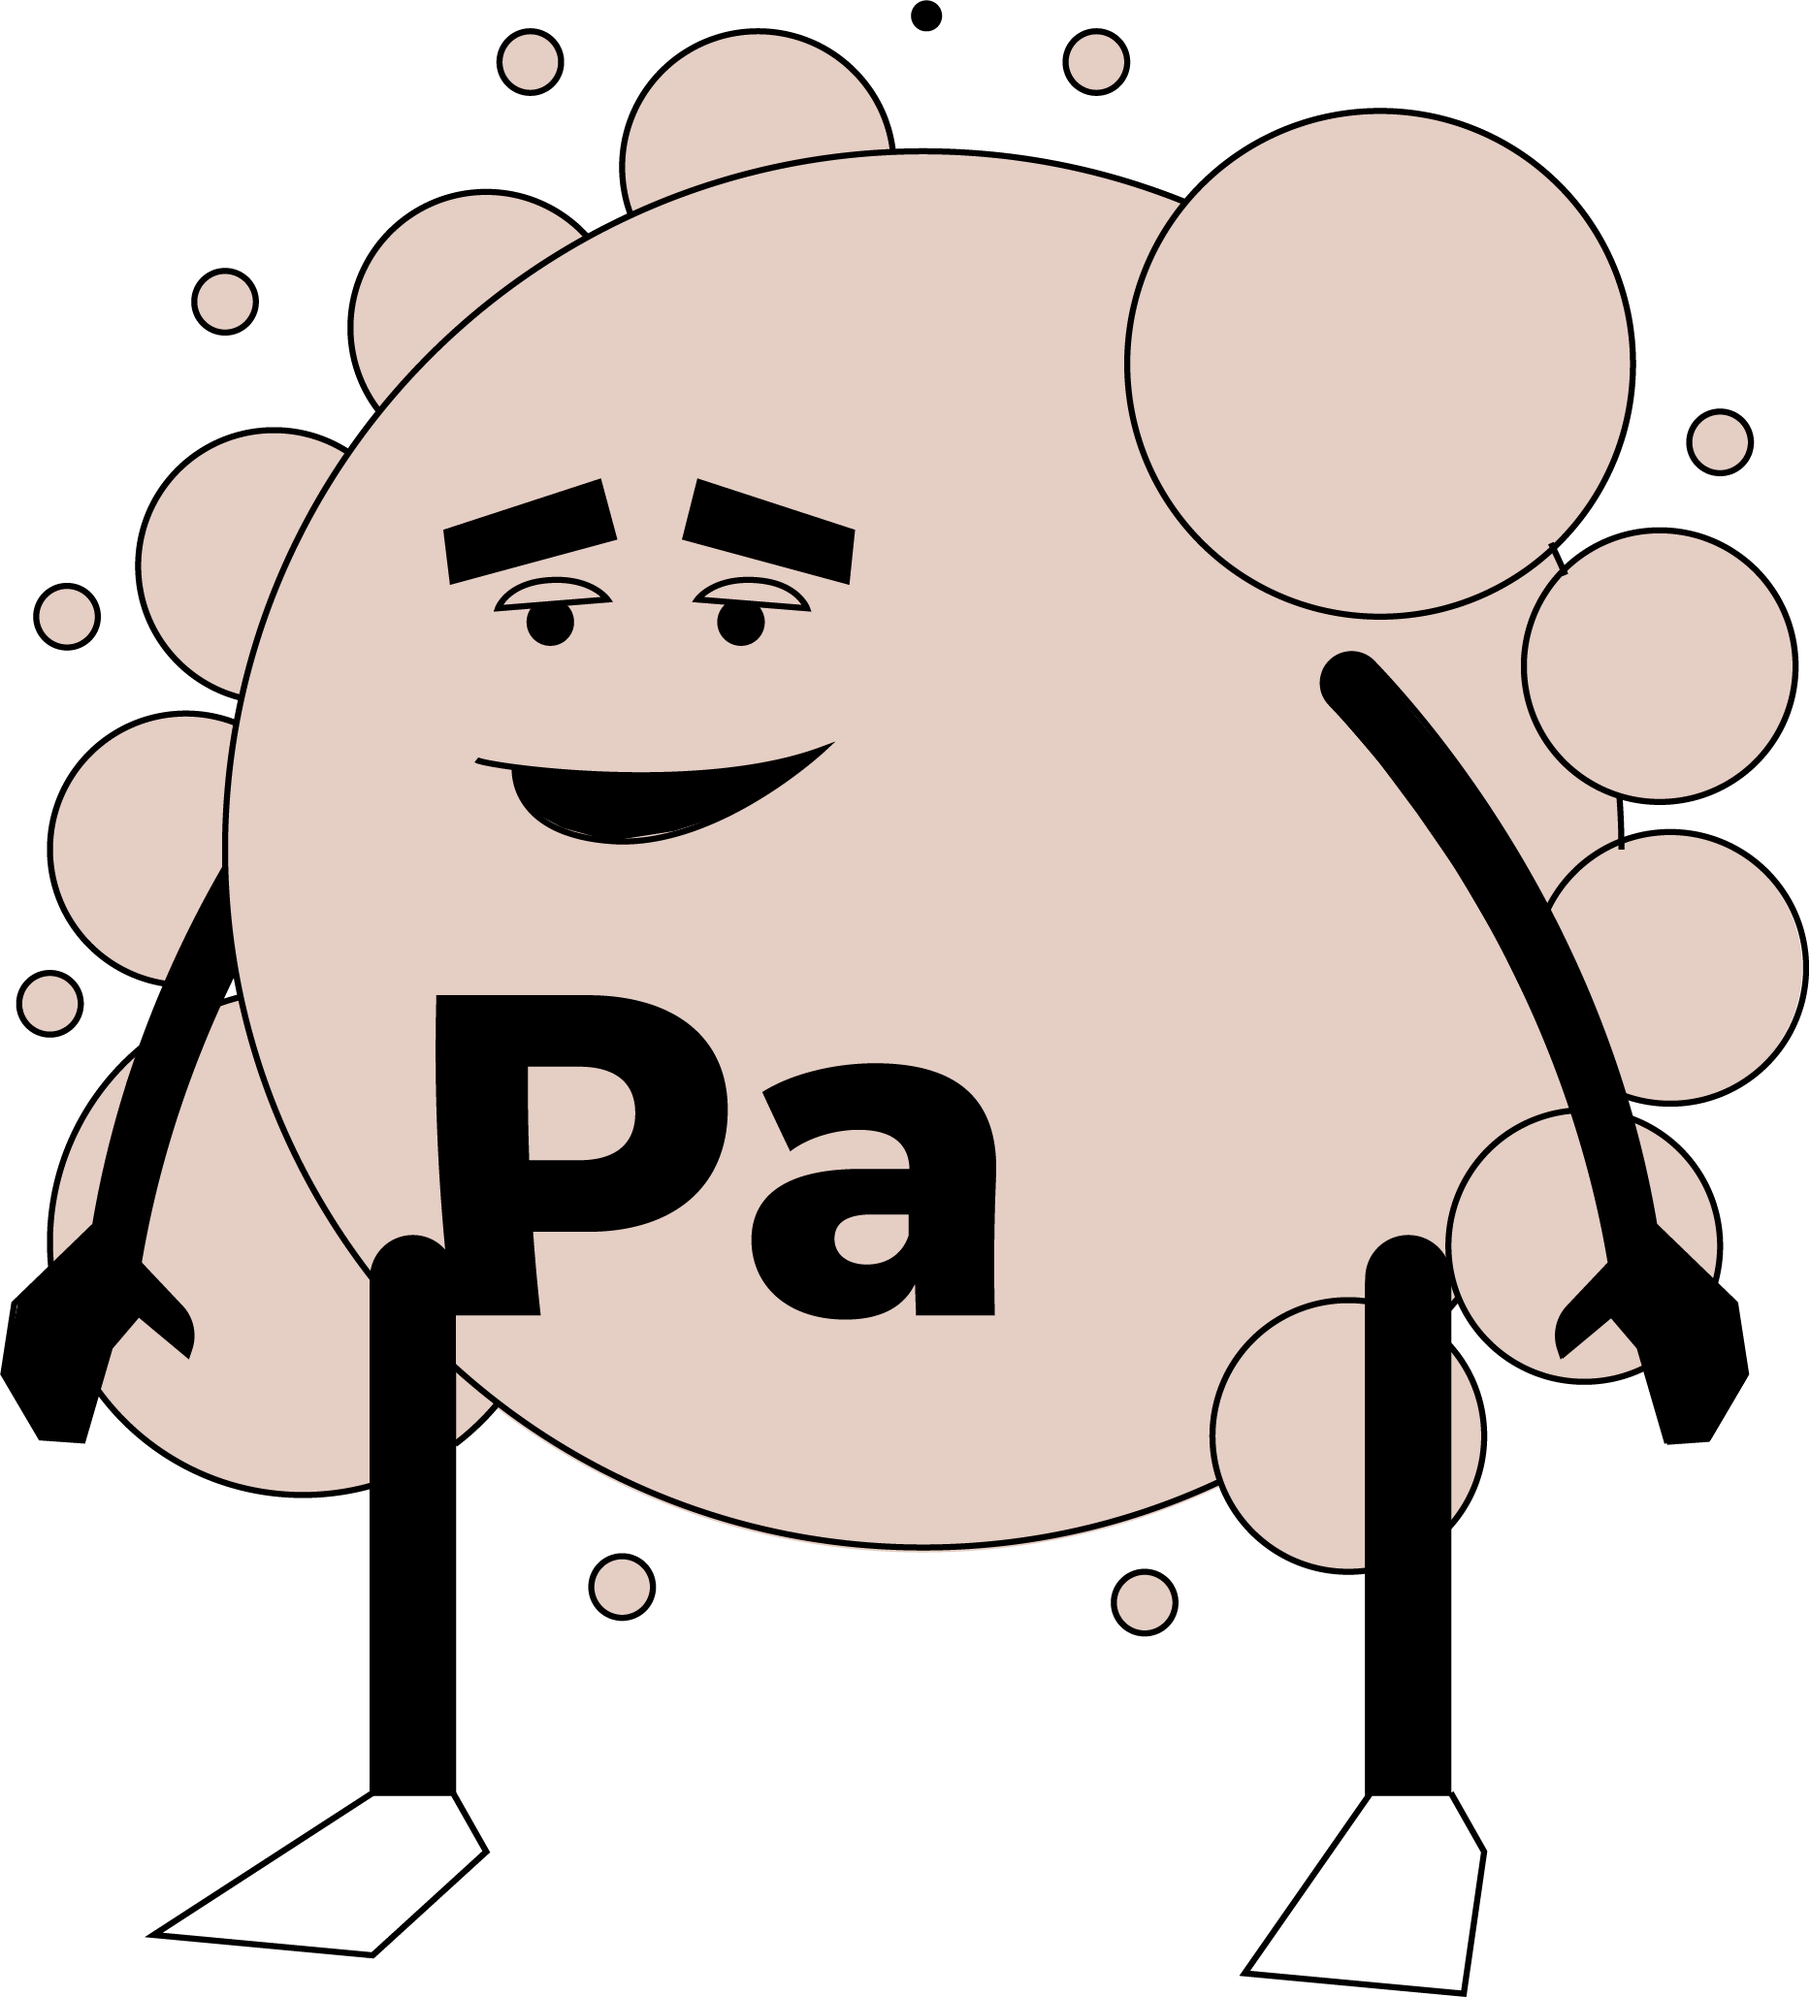
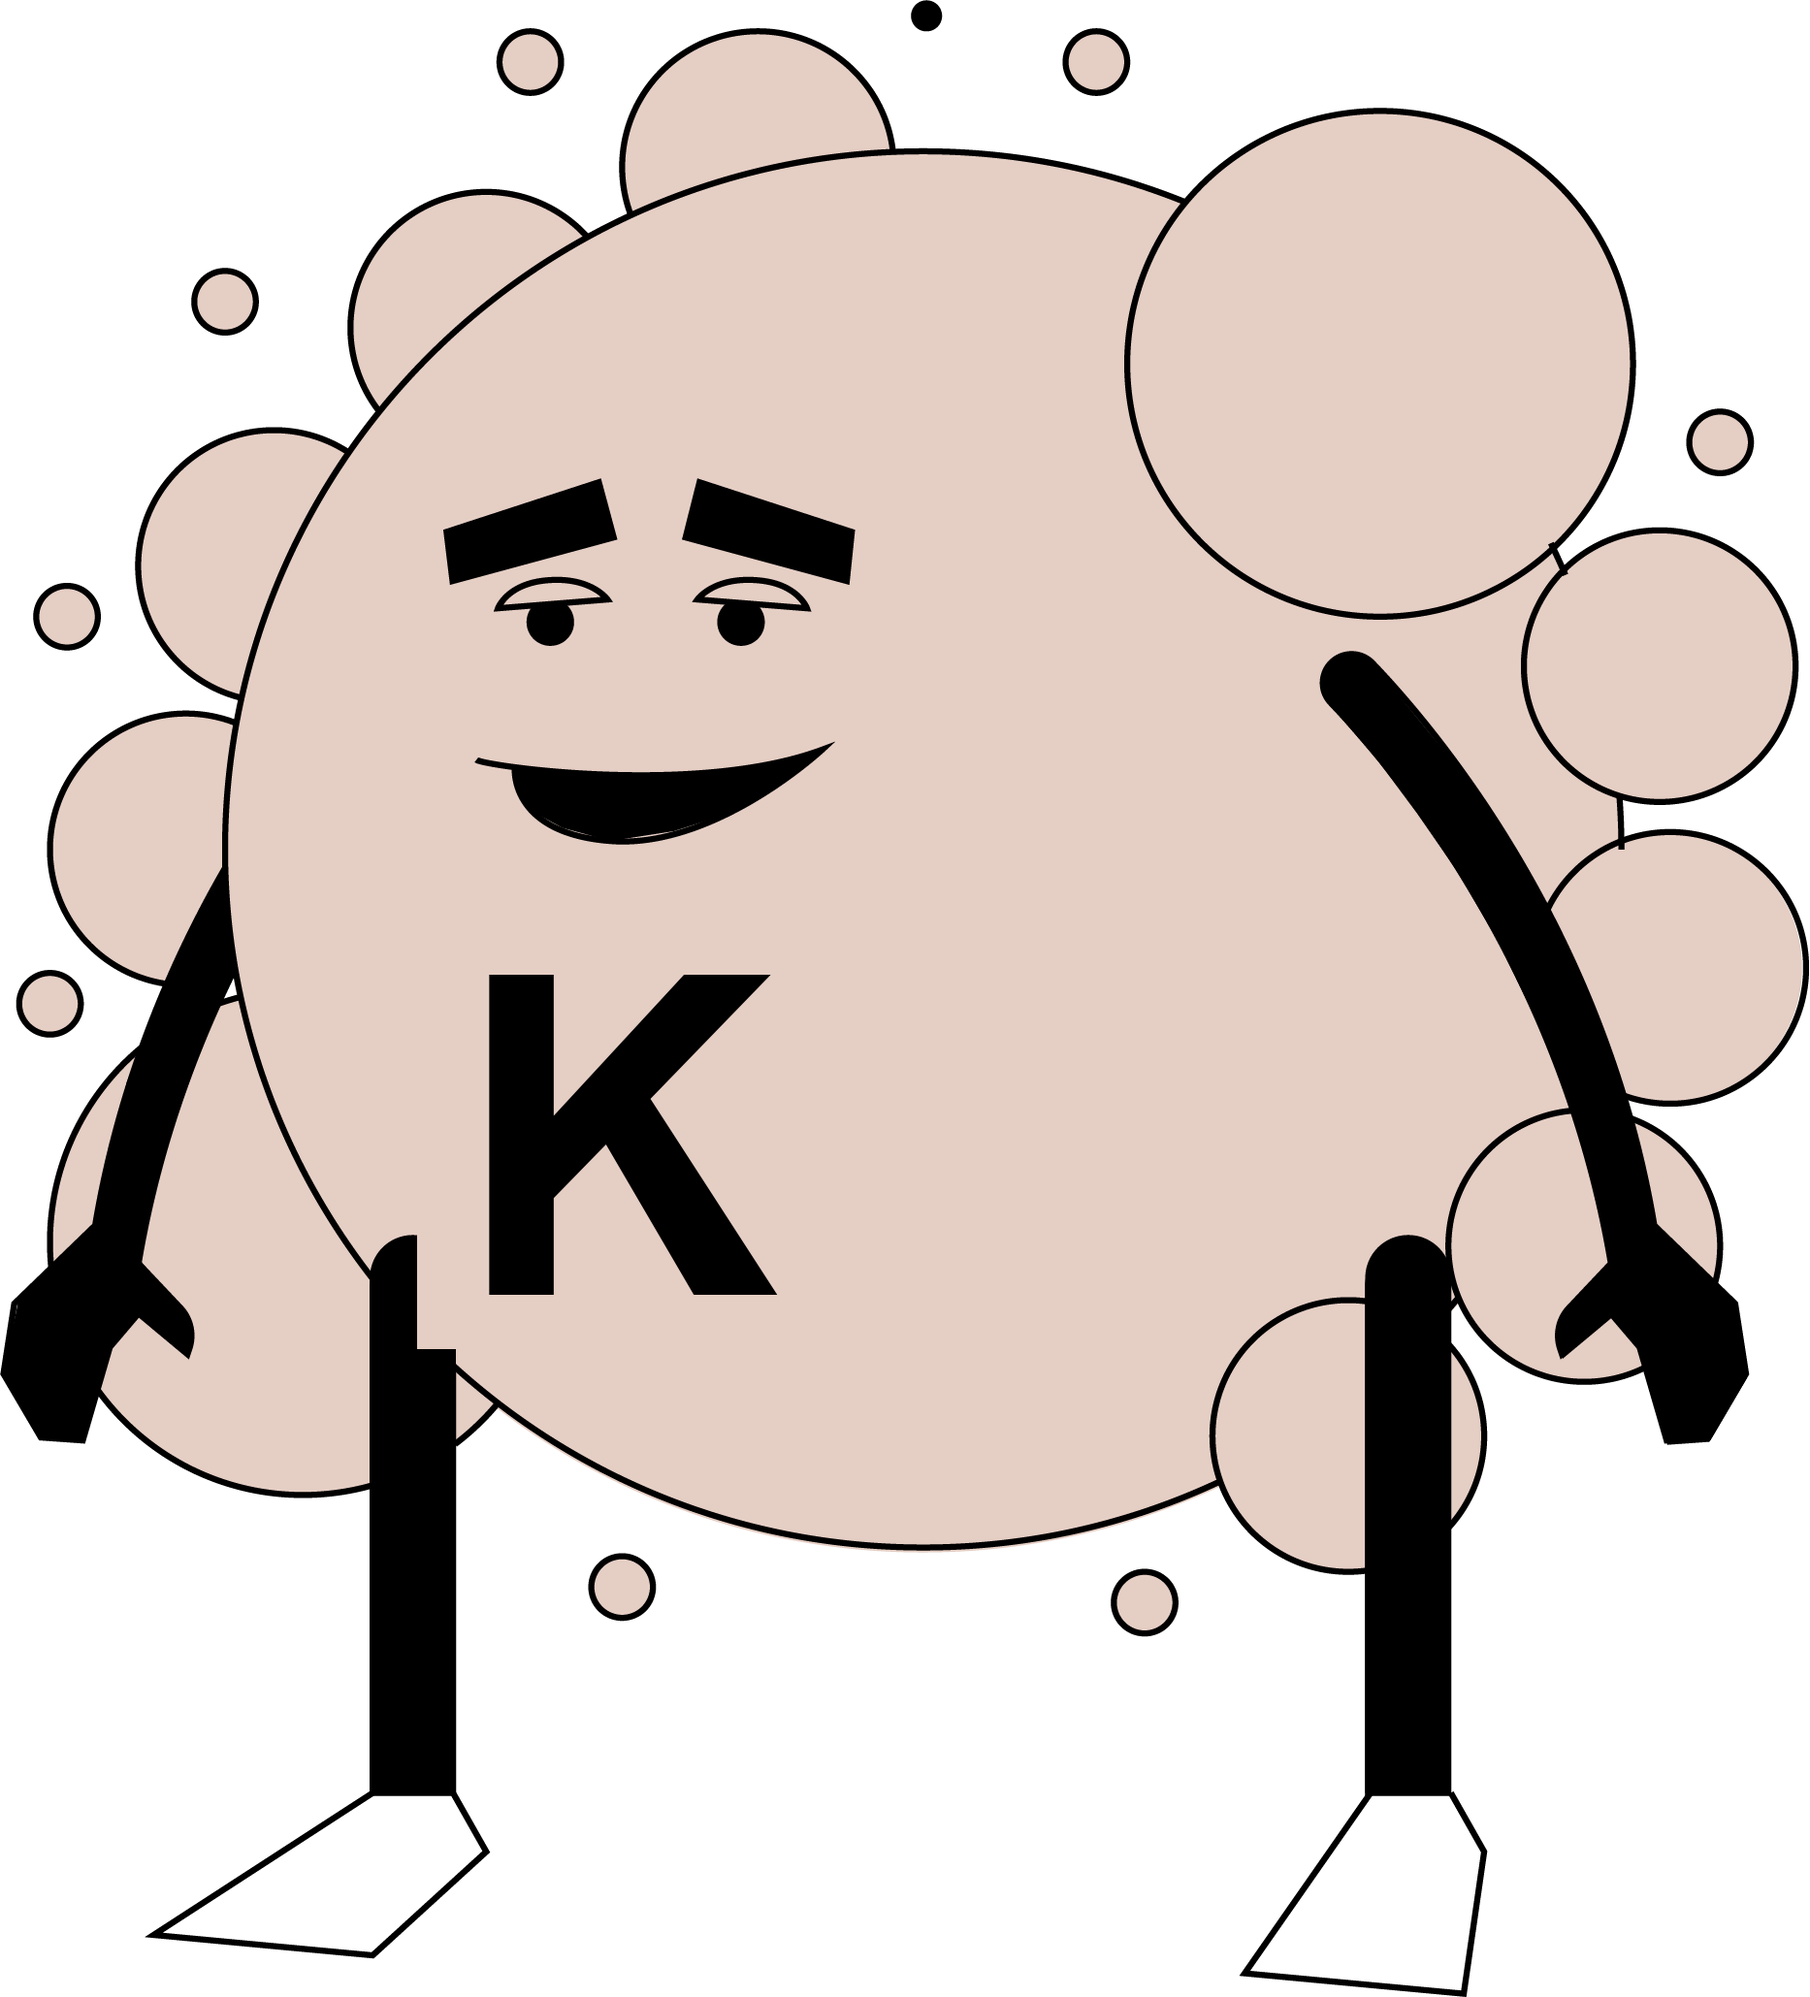
# updates electrolytes and roles

Changed region(s): [[0.2176, 0.4662, 0.5595, 0.6838]]

diff --git a/games/electrolyte-matching/index.html b/games/electrolyte-matching/index.html
@@ -21,7 +21,8 @@
           <span class="kicker">Hydration Check</span>
           <h1>Electrolyte Matching Game</h1>
           <p class="intro">
-            Connect each electrolyte to one role. Threads stay in place, then the final result scores the list.
+            Select an electrolyte, then choose the function(s) you think it supports. Each correct match helps
+            restore the person's hydration and energy. Can you help them go from feeling drained to refreshed?
           </p>
         </div>
 
